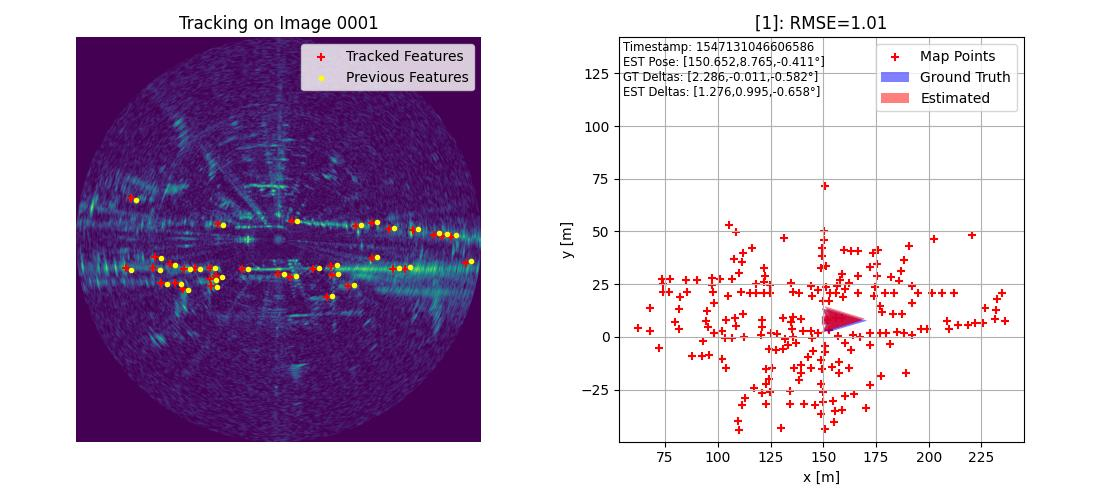
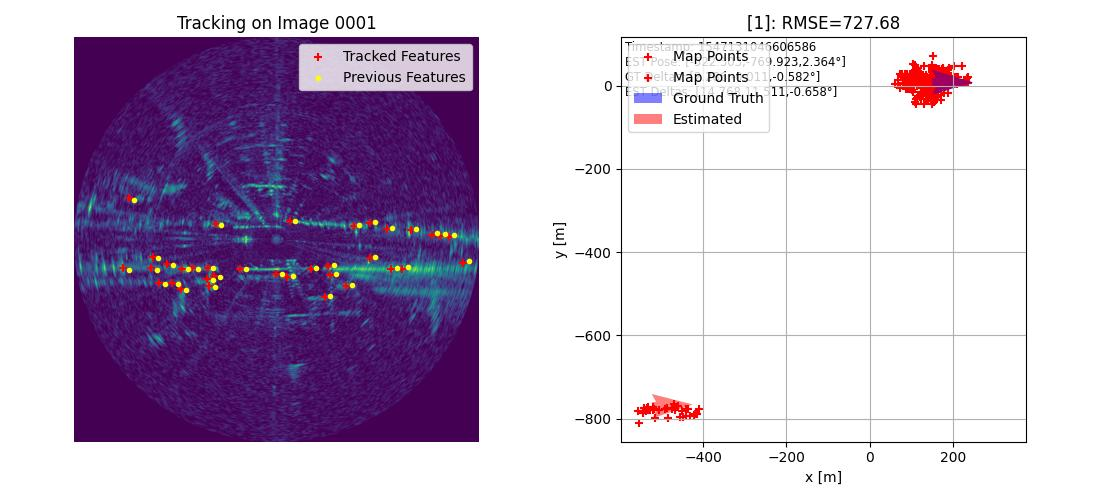
A crap ton of hacking to get a working implementation. This code was not written with undistortion in mind. Had to break a few things to get a working version

diff --git a/motionDistortion.py b/motionDistortion.py
@@ -31,7 +31,7 @@ Debug
 
 '''
 RADAR_SCAN_FREQUENCY = 4 # 4 hz data
-
+VERBOSE = False
 class MotionDistortionSolver():
     def __init__(self, T_wj0, p_w, p_jt, T_wj, sigma_p, sigma_v, 
                  frequency = RADAR_SCAN_FREQUENCY):
@@ -80,6 +80,8 @@ class MotionDistortionSolver():
         self.T_wj0_inv = np.linalg.inv(T_wj0)
         self.p_w = homogenize(p_w) # Estimated point world positions, N x 3
         self.p_jt = homogenize(p_jt) # Observed points at time t, N x 3
+        assert(p_w.shape == p_jt.shape)
+        self.T_wj_initial = T_wj
 
         # e_v Parameters
         self.v_j_initial = self.infer_velocity(T_wj)
@@ -123,6 +125,10 @@ class MotionDistortionSolver():
         Computes a new set of undistorted observed points, based on the current
         best estimate of v_T, T_wj, dT
         '''
+        # Turn points in homogeneous form if not already
+        points = homogenize(points)
+
+        # Get the time deltas for motion distortion 
         if times is None:
             assert(period > 0)
             times = MotionDistortionSolver.compute_time_deltas(period, points)
@@ -140,7 +146,7 @@ class MotionDistortionSolver():
                            [np.zeros(shape), np.zeros(shape), np.ones(shape)]])
         p_jt_col = np.expand_dims(points, axis = 2) # N x 3 x 1
         undistorted = T_j_jt.transpose((2, 0, 1)) @ p_jt_col # N x 3 x 1
-        return undistorted
+        return np.squeeze(undistorted) # N x 3
 
     def expected_observed_pts(self, T_wj):
         '''
@@ -172,7 +178,7 @@ class MotionDistortionSolver():
         # Compute point error
         undistorted = MotionDistortionSolver.undistort(v_j, self.p_jt, times=self.dT)
         expected = self.expected_observed_pts(T_wj)
-        naive_e_p = expected - np.squeeze(undistorted).T # 3 x N
+        naive_e_p = expected - undistorted.T # 3 x N
         # Actual loss is the Cauchy robust loss, defined here:
         e_p_i = np.log(np.square(naive_e_p[:2, :]) / 2 + 1) # 2 x N
         e_p = e_p_i.flatten(order='F')
@@ -185,13 +191,12 @@ class MotionDistortionSolver():
         dy = T_j_j1[1, 2]
         dtheta = np.arctan2(T_j_j1[1, 0], T_j_j1[0, 0])
         v_j_prior = np.array([dx, dy, dtheta]) / self.total_scan_time
-        #print(f"Prior velocity: {v_j_prior}")
         v_diff = (v_j - v_j_prior)
         v_diff[2] = normalize_angles(v_diff[2])
         e_v = v_diff * e_p_i.shape[1] # (3,)
         # ideally should warp2pi here on theta error
         e = np.hstack((e_p, e_v))
-        #print(e)
+
         return e
 
     def jacobian_vector(self, params):
@@ -216,7 +221,7 @@ class MotionDistortionSolver():
         '''
         undistorted = MotionDistortionSolver.undistort(v_j, self.p_jt, times=self.dT)
         expected = self.expected_observed_pts(T_wj)
-        input = expected - np.squeeze(undistorted).T # 3 x N
+        input = expected - undistorted.T # 3 x N
         naive_e_p = input[:2]
         cauchy_derivative = naive_e_p / (np.square(naive_e_p) / 2 + 1) # 3 x N
 
@@ -290,8 +295,9 @@ class MotionDistortionSolver():
         T0 = self.T_wj_initial
         T_params = np.array([T0[0, 2], T0[1, 2], np.arctan2(T0[1, 0], T0[0, 0])])
         initial_guess = np.hstack((self.v_j_initial, T_params))
-        print(f"Initial v guess: {self.v_j_initial}")
-        print(f"Initial T guess: {T_params}")
+        if VERBOSE:
+            print(f"Initial v guess: {self.v_j_initial}")
+            print(f"Initial T guess: {T_params}")
 
         result = sp.optimize.least_squares(self.error_vector, initial_guess, jac = '2-point', method = 'lm')
         # result = sp.optimize.least_squares(self.error_vector, initial_guess, jac = self.jacobian_vector, method = 'lm')
@@ -305,9 +311,10 @@ class MotionDistortionSolver():
                         2 : "ftol termination condition is satisfied",
                         3 : "xtol termination condition is satisfied",
                         4 : "Both ftol and xtol termination conditions are satisfied"}
-        print(f"Final v: {best_params[:3]}")
-        print(f"Final t: {best_params[3:]}")
-        print(f"Used {num_evals} evaluations")
-        print(f"Residuals were {result.fun}")
-        print(status_dict[status])
+        if VERBOSE:
+            print(f"Final v: {best_params[:3]}")
+            print(f"Final t: {best_params[3:]}")
+            print(f"Used {num_evals} evaluations")
+            print(f"Residuals were {result.fun}")
+            print(status_dict[status])
         return best_params

diff --git a/RawROAMSystem.py b/RawROAMSystem.py
@@ -142,13 +142,14 @@ class RawROAMSystem():
         # Get initial features from Cartesian image
         blobCoord = np.empty((0, 2))
         blobCoord, _ = appendNewFeatures(prevImgCart, blobCoord)
+        print(f"blobCoord shape:{blobCoord.shape}")
 
         # Initialize first keyframe
         zero_velocity = np.zeros((3,))
-        old_kf = Keyframe(initPose, blobCoord, prevImgPolar, ) # pointer to previous kf
+        old_kf = Keyframe(initPose, blobCoord, prevImgPolar, zero_velocity) # pointer to previous kf
         self.map.addKeyframe(old_kf)
 
-        possible_kf = Keyframe(initPose, blobCoord, prevImgPolar)
+        possible_kf = Keyframe(initPose, blobCoord, prevImgPolar, zero_velocity)
 
         for seqInd in range(startSeqInd + 1, endSeqInd + 1):
             # Obtain polar and Cart image
@@ -162,16 +163,18 @@ class RawROAMSystem():
                 blobCoord, seqInd)
             
             # Keyframe updating
+            print(f"Pruning index shape {corrStatus.shape}")
             old_kf.pruneFeaturePoints(corrStatus)
             
             print("Detected", np.rad2deg(rotAngleRad), "[deg] rotation")
             estR = getRotationMatrix(-rotAngleRad)
             
-            R, h = tracker.getTransform(good_old, good_new, pixel = False)
+            R, h = tracker.getTransform(good_old, good_new, pixel = True)
             # R = estR
             
             # Solve for Motion Compensated Transform
-            p_w = old_kf.getPrunedFeaturesGlobalPosition() 
+            p_w = old_kf.getPrunedFeaturesGlobalPosition()
+
             # Initial Transform guess
             T_wj = np.block([[R,                h],
                              [np.zeros((2,)),   1]])
@@ -179,13 +182,14 @@ class RawROAMSystem():
             MDS.update_problem(prev_pose, p_w, good_new, T_wj)
             undistort_solution = MDS.optimize_library()
             pose_vector = undistort_solution[3:]
+            velocity = undistort_solution[:3]
 
             # Update trajectory
             #self.updateTrajectory(R, h, seqInd)
             self.updateTrajectoryAbsolute(pose_vector, seqInd)
 
             latestPose = pose_vector #self.estTraj.poses[-1]
-            possible_kf.updateInfo(latestPose, good_new, currImgPolar)
+            possible_kf.updateInfo(latestPose, good_new, currImgPolar, velocity)
 
             # Add a keyframe if it fulfills criteria
             # 1) large enough translation from previous keyframe
@@ -195,7 +199,8 @@ class RawROAMSystem():
             # NOTE: Feature check and appending will only be checked in the next iteration,
             #       so we can prematuraly do it here and add a keyframe first
             nFeatures = good_new.shape[0]
-            if (nFeatures <= N_FEATURES_BEFORE_RETRACK) or \
+            retrack = (nFeatures <= N_FEATURES_BEFORE_RETRACK)
+            if retrack or \
                 self.map.isGoodKeyframe(possible_kf):
 
                 print("\nAdding keyframe...\n")
@@ -208,16 +213,23 @@ class RawROAMSystem():
                 # Proposed fix: old_kf = possible_kf # switch ptr to new object
                 # Initialize new poss_kf for new ptr
                 old_kf = possible_kf
-                possible_kf = Keyframe(latestPose, good_new, currImgPolar)
+                # TODO: Never replenished blobCoord. Proposed fix: Done here.
+                if retrack:
+                    print(f"Restocking features for new keyframe")
+                    good_new, _ = appendNewFeatures(currImgCart, good_new)
+                    old_kf.updateInfo(latestPose, good_new, currImgPolar, velocity)
+                    print(f"{old_kf.featurePointsLocal.shape[0]} features now")
+                possible_kf = Keyframe(latestPose, blobCoord, currImgPolar, velocity)
                 # TODO: do bundle adjustment here
                 self.map.bundleAdjustment()
 
             # Plotting and prints and stuff
-            self.plot(prevImgCart, currImgCart, good_old, good_new, R, h,
-                      seqInd)
+            # self.plot(prevImgCart, currImgCart, good_old, good_new, R, h,
+            #           seqInd)
 
             # Update incremental variables
             blobCoord = good_new.copy()
+            print(f"Blob coord is now size: {blobCoord.shape}")
             prevImgCart = currImgCart
             prev_pose = convertPoseToTransform(latestPose)
 

diff --git a/Mapping.py b/Mapping.py
@@ -62,7 +62,8 @@ class Keyframe():
         self.pointCloud = getPointCloudPolarInd(radarPolarImg)
 
         self.velocity = velocity
-        self.featurePointsLocalUndistorted = MotionDistortionSolver.undistort(velocity, featurePointsLocal)
+        print(featurePointsLocal.shape)
+        self.featurePointsLocalUndistorted = MotionDistortionSolver.undistort(velocity, featurePointsLocal)[:, :2]
         self.prunedUndistortedLocals = self.featurePointsLocalUndistorted
 
     def copyFromOtherKeyframe(self, keyframe) -> None:
@@ -95,7 +96,23 @@ class Keyframe():
         return featurePointsGlobal
     
     def getPrunedFeaturesGlobalPosition(self):
-        return self.convertFeaturesLocalToGlobal(self.prunedUndistortedLocals)
+        x, y, th = self.pose
+
+        # First translate local points to origin at center
+        featurePointsGlobal = self.prunedUndistortedLocals - RADAR_CART_CENTER
+
+        # Then we need to convert to meters
+        #featurePointsGlobal *= RANGE_RESOLUTION_CART_M  # px * (m/px) = m
+
+        # Center origin at pose center
+
+        # Rotate and translate to make into global coordinate system
+        R = getRotationMatrix(th)
+        t = np.array([x, y]).reshape(2, 1)
+        featurePointsGlobal = (R @ (featurePointsGlobal.T + t)).T
+
+        return featurePointsGlobal
+        return self.convertFeaturesLocalToGlobal()
 
     def pruneFeaturePoints(self, corrStatus: np.ndarray) -> None:
         '''
@@ -103,8 +120,8 @@ class Keyframe():
         @param[in] corrStatus 
         @note In place changing of `self.prunedFeaturePoints` function, which aims to track and prune away the feature points that are part of this keyframe
         '''
-        self.prunedFeaturePoints = self.prunedFeaturePoints[corrStatus]
-        self.prunedUndistortedLocals = self.prunedUndistortedLocals[corrStatus]
+        self.prunedFeaturePoints = self.prunedFeaturePoints[corrStatus.flatten().astype(bool)]
+        self.prunedUndistortedLocals = self.prunedUndistortedLocals[corrStatus.flatten().astype(bool)]
 
     # def isVisible(self, keyframe):
     #     '''

diff --git a/Tracker.py b/Tracker.py
@@ -82,12 +82,23 @@ class Tracker():
         print(
             f"{seqInd} | Num good features: {nGoodFeatures} of {nFeatures} ({(nGoodFeatures / nFeatures) * 100:.2f}%) | Time: {toc(start):.2f}s"
         )
+        
+        # plt.subplot(1, 2, 1)
+        # plt.scatter(good_old[:,0], good_old[:,1])
+        # plt.subplot(1, 2, 2)
+        # plt.scatter(good_new[:,0], good_new[:,1])
+        # plt.show()
 
         # Outlier rejection
         doOutlierRejection = self.paramFlags.get("rejectOutliers", True)
         if doOutlierRejection:
             good_old, good_new, pruning_mask = rejectOutliers(good_old, good_new)
-
+        
+        # plt.subplot(1, 2, 1)
+        # plt.scatter(good_old[:,0], good_old[:,1])
+        # plt.subplot(1, 2, 2)
+        # plt.scatter(good_new[:,0], good_new[:,1])
+        # plt.show()
         # Ensure correct correspondence status
         rng = np.arange(nFeatures)
         corrStatus[rng[corrStatus.flatten().astype(bool)]] &= pruning_mask[:, np.newaxis]

diff --git a/getFeatures.py b/getFeatures.py
@@ -54,7 +54,7 @@ def getBlobsFromCart(cartImage: np.ndarray,
 
 # Thresholds for feature loss
 PERCENT_FEATURE_LOSS_THRESHOLD = 0.75
-N_FEATURES_BEFORE_RETRACK = -1  # TODO: Make it dynamic (find the overall loss)
+N_FEATURES_BEFORE_RETRACK = 60  # TODO: Make it dynamic (find the overall loss)
 
 
 # TODO: Make dynamic?
@@ -103,7 +103,6 @@ def appendNewFeatures(srcImg, oldFeaturesCoord):
     @param[in] srcImg Source image to obtain features on
     @param[in] oldFeaturesCoord (K x 2) array of [x, y] coordinate of features
     '''
-
     newFeatureCoord, newFeatureRadii = getFeatures(srcImg)
     print("Added", newFeatureCoord.shape[0], "new features!")
 

diff --git a/getTransformKLT.py b/getTransformKLT.py
@@ -15,7 +15,7 @@ from trajectoryPlotting import Trajectory, getGroundTruthTrajectory, plotGtAndEs
 from utils import *
 
 PLOT_BAD_FEATURES = False
-N_FEATURES_BEFORE_RETRACK = 80
+N_FEATURES_BEFORE_RETRACK = 60
 
 def visualize_transform(prevImg: np.ndarray,
                         currImg: np.ndarray,
@@ -349,6 +349,7 @@ def getTrackedPointsKLT(
     if nFeatures < N_FEATURES_BEFORE_RETRACK:
         featurePtSrc, N_FEATURES_BEFORE_RETRACK = \
             appendNewFeatures(srcImg, featurePtSrc)
+        print("WARNING: getTransformKLT added new features!")
 
     # Perform KLT to get corresponding points
     # Stupid conversions to appropriate types

diff --git a/data/full_seq_1/INFO.md b/data/full_seq_1/INFO.md
@@ -11,7 +11,7 @@ Distance: 9.02 km
 Frames: 8867
 FPS: 4.00 Hz
 Resolution: 4.32 cm
-Range: 165 m
+Range: 165 m 
 
 ## Dataset Structure
 
@@ -23,7 +23,6 @@ Range: 165 m
          |-- (bunch of radar images labelled as <timestamp>.png)
       |-- info.txt (this file)
       |-- radar.timestamps (in form: <timestamp> <valid-bit>
-      |-- gt
-         |-- radar_odometry.csv (processed ground truth odometry data from GPS)
-
+      |-- radar_odometry.csv (processed ground truth odometry data from GPS)
+      
  ```
